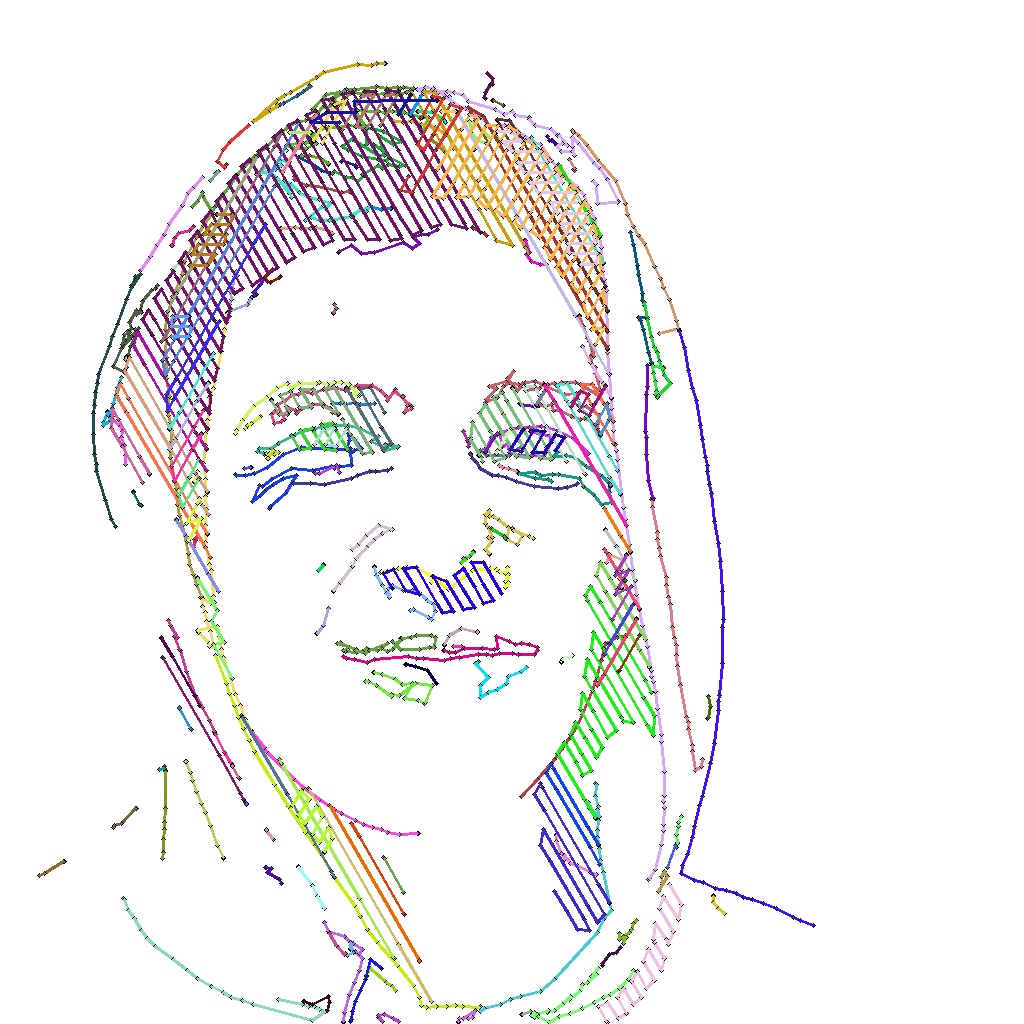
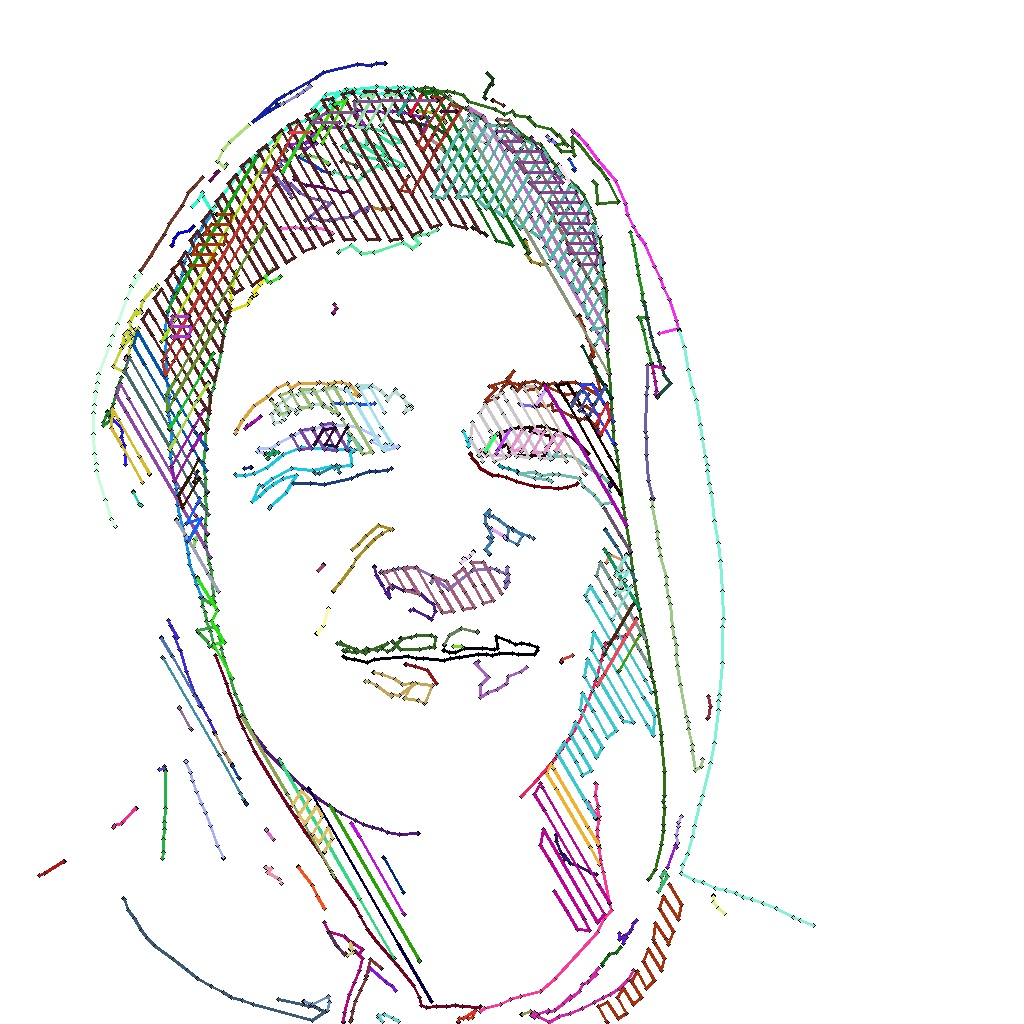
e

diff --git a/full_face_processing.py b/full_face_processing.py
@@ -677,12 +677,12 @@ if __name__ == "__main__":
     # segments = process_combo(filename, 30, 1, 1, 120)
     # plot_path_full(segments)
 
-    segments= process_combo_raw_multi(input_img)
-    # segments = process_shading_raw(filename)
-    # segments = process_edges_raw(filename, blur_radius=15, lower_thresh=5, upper_thresh=40, areaCut=10, minNumPixels=5, segmentSplitDistance=20)
-    plot_segments(segments)
+    # segments= process_combo_raw_multi(input_img)
+    # # segments = process_shading_raw(filename)
+    # # segments = process_edges_raw(filename, blur_radius=15, lower_thresh=5, upper_thresh=40, areaCut=10, minNumPixels=5, segmentSplitDistance=20)
+    # plot_segments(segments)
 
-    # segments = process_shading_raw(filename, n=5, theta=math.pi/4)
-    # segments =  calc_path(segments,  10, .001, 1, 60)
-    # plot_path_full(segments)
+    segments = process_combo_raw_multi(input_img)
+    segments =  calc_path(segments, 40, .001, 1, 1020)
+    plot_path_full(segments)
 

diff --git a/main.py b/main.py
@@ -8,7 +8,7 @@ from full_face_processing import process_combo, process_combo_raw_multi
 from full_path_planning import calc_path
 
 import solenoid
-from solenoid import pen_up, pen_down
+from solenoid import pen_up, pen_down, up_damp
 
 
 
@@ -21,7 +21,7 @@ def main():
     behind = 0
 
 
-    scale_factor = 5
+    scale_factor = 8
     offset = (0,0)
 
     def draw_progress(queue1, queue2):
@@ -188,7 +188,7 @@ def main():
 
 
         print(f"segment written at {1 / (time.perf_counter() - t1) * len(seg)} hz")
-        pen_up()
+        up_damp()
 
     print("done")
     print(behind)

diff --git a/solenoid.py b/solenoid.py
@@ -11,14 +11,19 @@ def pen_up():
 
 #puts the pen down
 def pen_down():
-    pwm.write(0) #writes pwm
-    time.sleep(.1)
+    pwm.write(0.0) #writes pwm
+
+    
+def up_damp(delay=.015, hold_pow=.2):
+    pwm.write(1)
+    time.sleep(delay)
+    pwm.write(hold_pow)
     
     
 if __name__ == "__main__":
     while True:
-        time.sleep(.1)
+        time.sleep(1)
+        up_damp()
+        time.sleep(1)
         pen_down()
-        time.sleep(.1)
-        pen_up()
         
